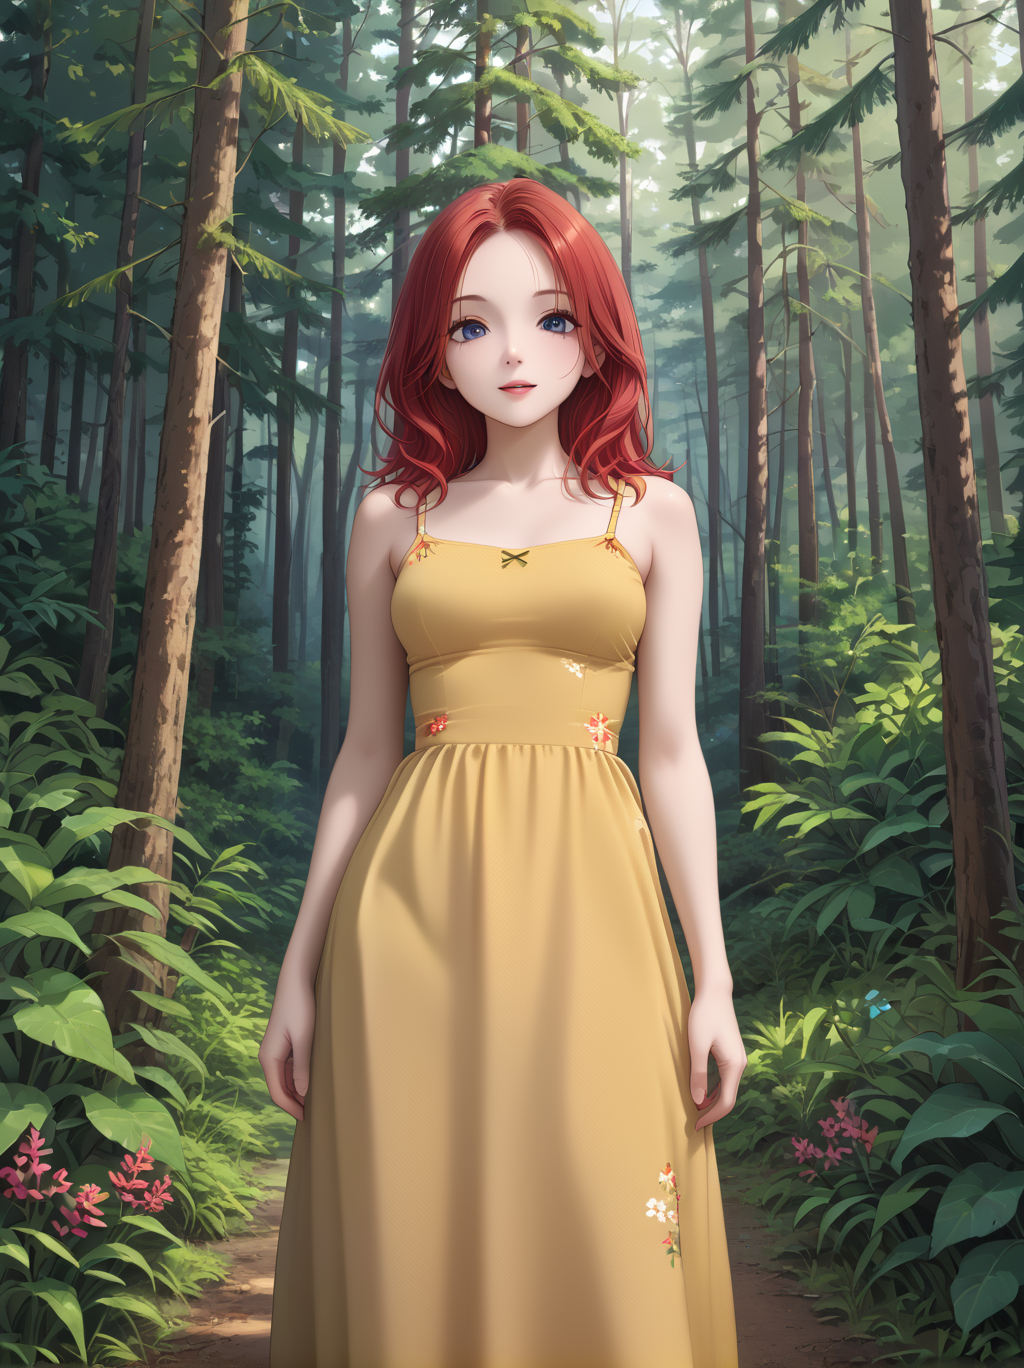
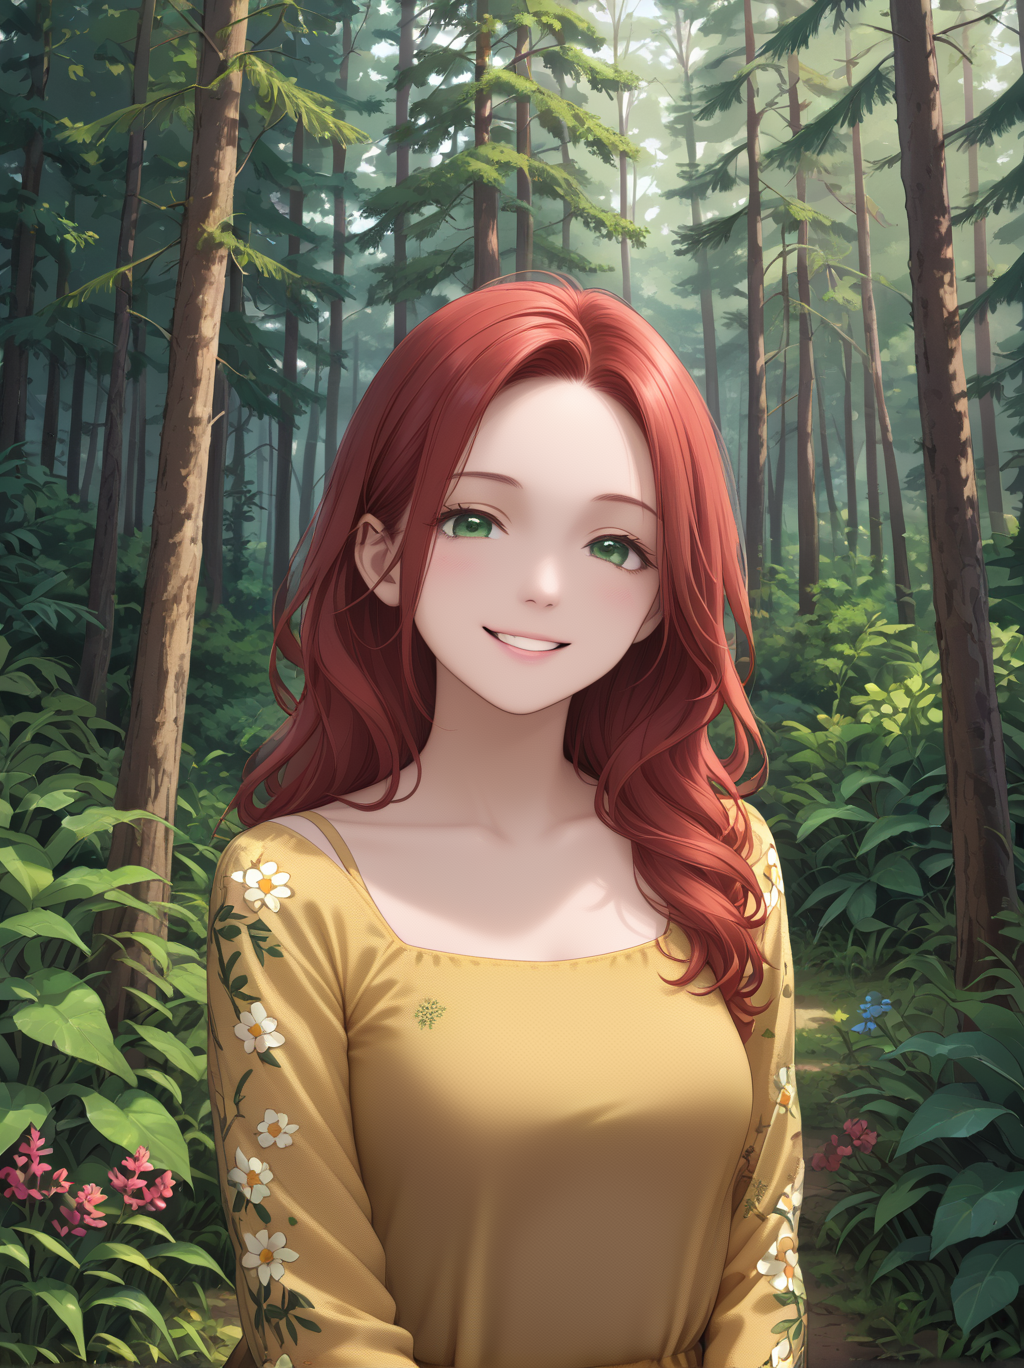
slightly improved output result

diff --git a/test_sdxl_softfill.py b/test_sdxl_softfill.py
@@ -20,8 +20,8 @@ mask_image = Image.open("mask_image.png").convert("RGB")
 
 # Set generation parameters
 prompt = "wearing yellow dress flower pattern, up-close girl with red hair, green eyes, gentle smile, wearing yellow dress flower pattern, background forest"
-negative_prompt = "deformed, nude, nsfw, facing away, cropped, crown, hat"
-num_inference_steps = 11
+negative_prompt = "deformed, nude, nsfw, t-shirt, facing away, cropped, crown, hat"
+num_inference_steps = 60
 strength = 0.9
 guidance_scale = 4
 

diff --git a/pipeline_stable_diffusion_xl_softfill.py b/pipeline_stable_diffusion_xl_softfill.py
@@ -1584,7 +1584,7 @@ class StableDiffusionXLSoftfillPipeline(
         map_tensor = map_tensor.to(device)
 
         # Decide on phase step counts.
-        inpaint_steps = num_inference_steps // 1 # comment out to run inpaint only
+        inpaint_steps = num_inference_steps // 3
         diffdiff_steps = num_inference_steps - inpaint_steps
 
         # Use one scheduler instance and set timesteps for the total number of steps.
